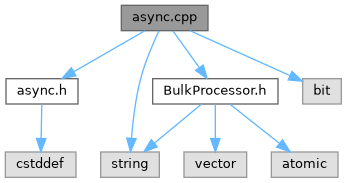
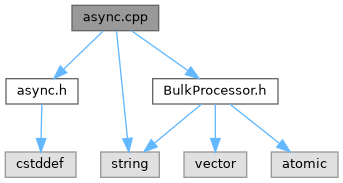
deploy: 59792c74ec6fe189526b7e4101dad107f7e98d17

diff --git a/async_8h_source.html b/async_8h_source.html
@@ -112,11 +112,11 @@ $(document).ready(function(){initNavTree('async_8h_source.html',''); initResizab
 <div class="line"><a id="l00030" name="l00030"></a><span class="lineno">   30</span> </div>
 <div class="line"><a id="l00035" name="l00035"></a><span class="lineno">   35</span>    <span class="keywordtype">void</span> <a class="code hl_function" href="namespaceasync.html#a73123dcf78c8e8a37526f43d7566b2ea">disconnect</a>(<a class="code hl_typedef" href="namespaceasync.html#a3cfc5985760e4b6b3474a3a06e934d94">HANDLE</a> handle);</div>
 <div class="line"><a id="l00036" name="l00036"></a><span class="lineno">   36</span>}</div>
-<div class="ttc" id="anamespaceasync_html"><div class="ttname"><a href="namespaceasync.html">async</a></div><div class="ttdef"><b>Definition</b> async.cpp:11</div></div>
-<div class="ttc" id="anamespaceasync_html_a32d7c7064c6b7dc30cb2cfe45b52288f"><div class="ttname"><a href="namespaceasync.html#a32d7c7064c6b7dc30cb2cfe45b52288f">async::connect</a></div><div class="ttdeci">HANDLE connect(size_t packSize)</div><div class="ttdoc">Создает новый процессор команд</div><div class="ttdef"><b>Definition</b> async.cpp:12</div></div>
+<div class="ttc" id="anamespaceasync_html"><div class="ttname"><a href="namespaceasync.html">async</a></div><div class="ttdef"><b>Definition</b> async.cpp:10</div></div>
+<div class="ttc" id="anamespaceasync_html_a32d7c7064c6b7dc30cb2cfe45b52288f"><div class="ttname"><a href="namespaceasync.html#a32d7c7064c6b7dc30cb2cfe45b52288f">async::connect</a></div><div class="ttdeci">HANDLE connect(size_t packSize)</div><div class="ttdoc">Создает новый процессор команд</div><div class="ttdef"><b>Definition</b> async.cpp:11</div></div>
 <div class="ttc" id="anamespaceasync_html_a3cfc5985760e4b6b3474a3a06e934d94"><div class="ttname"><a href="namespaceasync.html#a3cfc5985760e4b6b3474a3a06e934d94">async::HANDLE</a></div><div class="ttdeci">void * HANDLE</div><div class="ttdoc">Указатель на процессор команд</div><div class="ttdef"><b>Definition</b> async.h:14</div></div>
-<div class="ttc" id="anamespaceasync_html_a73123dcf78c8e8a37526f43d7566b2ea"><div class="ttname"><a href="namespaceasync.html#a73123dcf78c8e8a37526f43d7566b2ea">async::disconnect</a></div><div class="ttdeci">void disconnect(HANDLE handle)</div><div class="ttdoc">Завершает работу процессора</div><div class="ttdef"><b>Definition</b> async.cpp:22</div></div>
-<div class="ttc" id="anamespaceasync_html_aa9c679d89091c2ae453ca2b7dcbe0853"><div class="ttname"><a href="namespaceasync.html#aa9c679d89091c2ae453ca2b7dcbe0853">async::receive</a></div><div class="ttdeci">void receive(HANDLE handle, const char *data, size_t size)</div><div class="ttdoc">Передает данные для обработки</div><div class="ttdef"><b>Definition</b> async.cpp:16</div></div>
+<div class="ttc" id="anamespaceasync_html_a73123dcf78c8e8a37526f43d7566b2ea"><div class="ttname"><a href="namespaceasync.html#a73123dcf78c8e8a37526f43d7566b2ea">async::disconnect</a></div><div class="ttdeci">void disconnect(HANDLE handle)</div><div class="ttdoc">Завершает работу процессора</div><div class="ttdef"><b>Definition</b> async.cpp:21</div></div>
+<div class="ttc" id="anamespaceasync_html_aa9c679d89091c2ae453ca2b7dcbe0853"><div class="ttname"><a href="namespaceasync.html#aa9c679d89091c2ae453ca2b7dcbe0853">async::receive</a></div><div class="ttdeci">void receive(HANDLE handle, const char *data, size_t size)</div><div class="ttdoc">Передает данные для обработки</div><div class="ttdef"><b>Definition</b> async.cpp:15</div></div>
 </div><!-- fragment --></div><!-- contents -->
 </div><!-- doc-content -->
 <!-- start footer part -->

diff --git a/async_8cpp.html b/async_8cpp.html
@@ -107,21 +107,18 @@ $(document).ready(function(){initNavTree('async_8cpp.html',''); initResizable();
 <div class="textblock"><code>#include &quot;<a class="el" href="async_8h_source.html">async.h</a>&quot;</code><br />
 <code>#include &quot;<a class="el" href="BulkProcessor_8h_source.html">BulkProcessor.h</a>&quot;</code><br />
 <code>#include &lt;string&gt;</code><br />
-<code>#include &lt;bit&gt;</code><br />
 </div><div class="textblock"><div class="dynheader">
 Include dependency graph for async.cpp:</div>
 <div class="dyncontent">
 <div class="center"><img src="async_8cpp__incl.png" border="0" usemap="#aasync_8cpp" alt=""/></div>
 <map name="aasync_8cpp" id="aasync_8cpp">
-<area shape="rect" title="Реализация функций асинхронного интерфейса" alt="" coords="121,5,208,31"/>
+<area shape="rect" title="Реализация функций асинхронного интерфейса" alt="" coords="72,5,159,31"/>
 <area shape="rect" href="async_8h.html" title="Заголовочный файл асинхронного интерфейса" alt="" coords="6,79,78,104"/>
-<area shape="poly" title=" " alt="" coords="146,33,75,74,72,69,144,28"/>
+<area shape="poly" title=" " alt="" coords="105,33,66,71,62,67,101,29"/>
 <area shape="rect" href="BulkProcessor_8h.html" title=" " alt="" coords="153,79,278,104"/>
-<area shape="poly" title=" " alt="" coords="175,29,201,66,197,69,171,33"/>
+<area shape="poly" title=" " alt="" coords="133,29,189,68,186,73,130,33"/>
 <area shape="rect" title=" " alt="" coords="101,152,159,177"/>
-<area shape="poly" title=" " alt="" coords="161,32,143,79,134,138,129,138,138,78,156,30"/>
-<area shape="rect" title=" " alt="" coords="303,79,341,104"/>
-<area shape="poly" title=" " alt="" coords="191,28,291,73,289,78,189,33"/>
+<area shape="poly" title=" " alt="" coords="119,31,130,138,125,139,114,31"/>
 <area shape="rect" title=" " alt="" coords="5,152,76,177"/>
 <area shape="poly" title=" " alt="" coords="44,104,44,139,38,138,39,104"/>
 <area shape="poly" title=" " alt="" coords="203,106,156,145,153,141,200,102"/>
